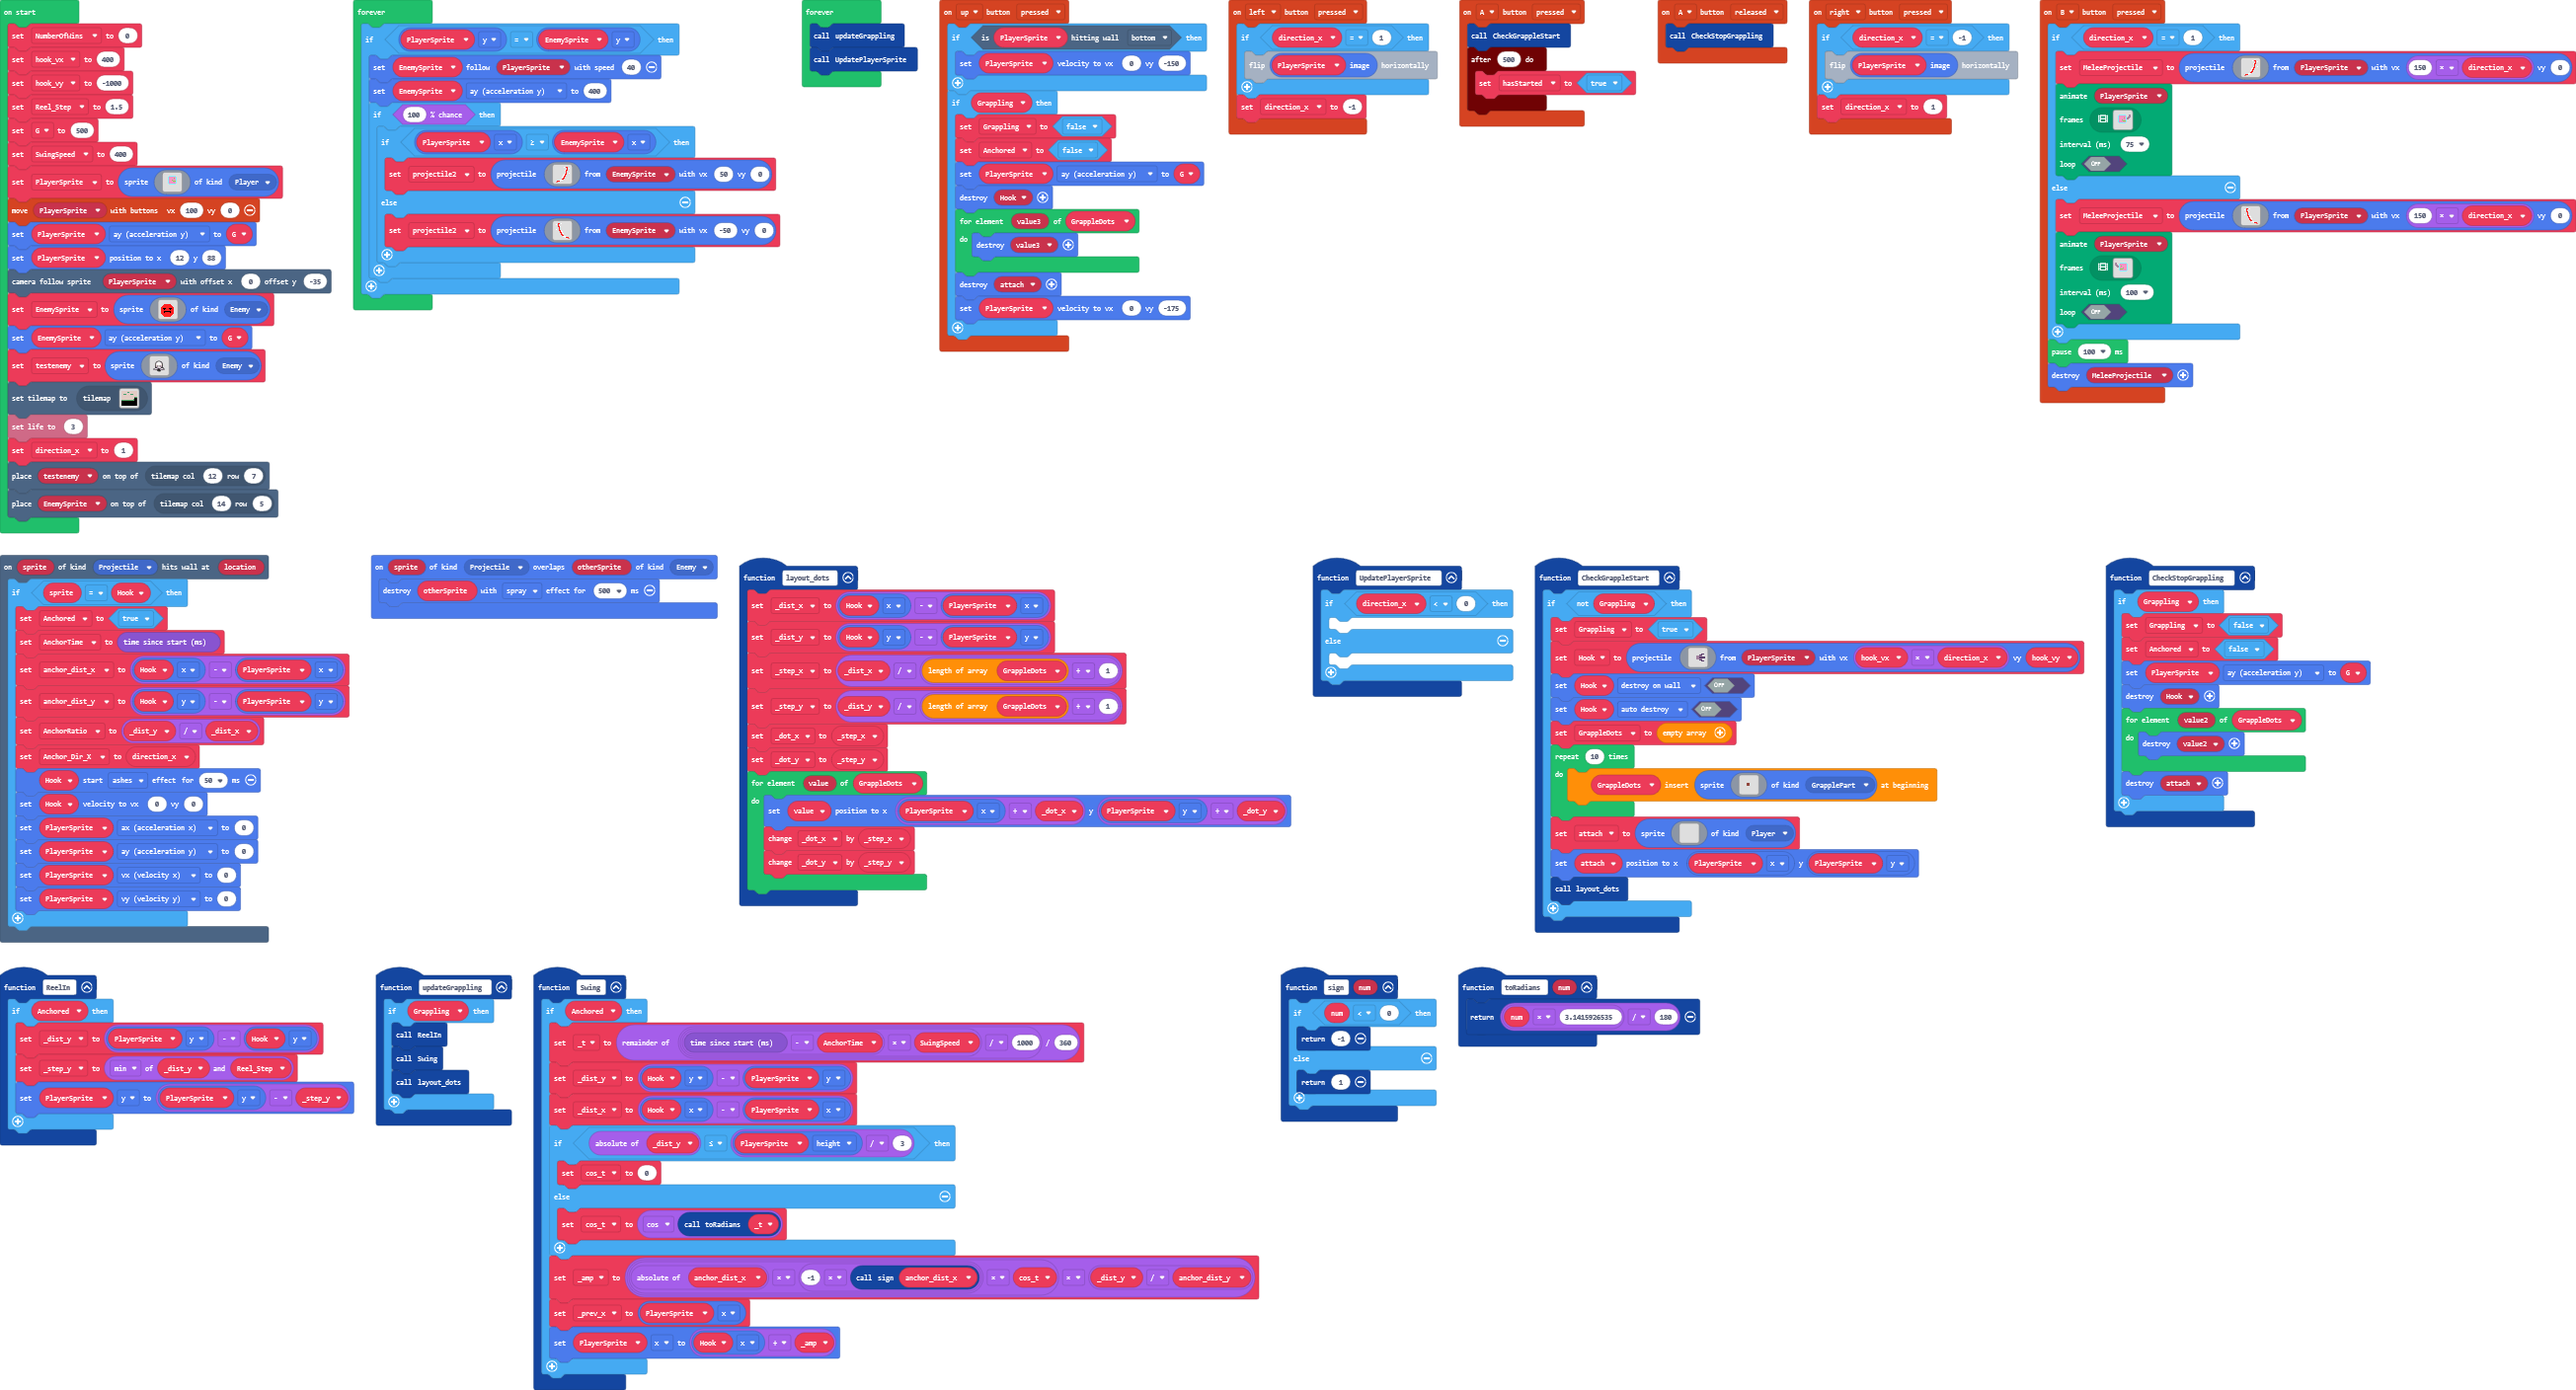
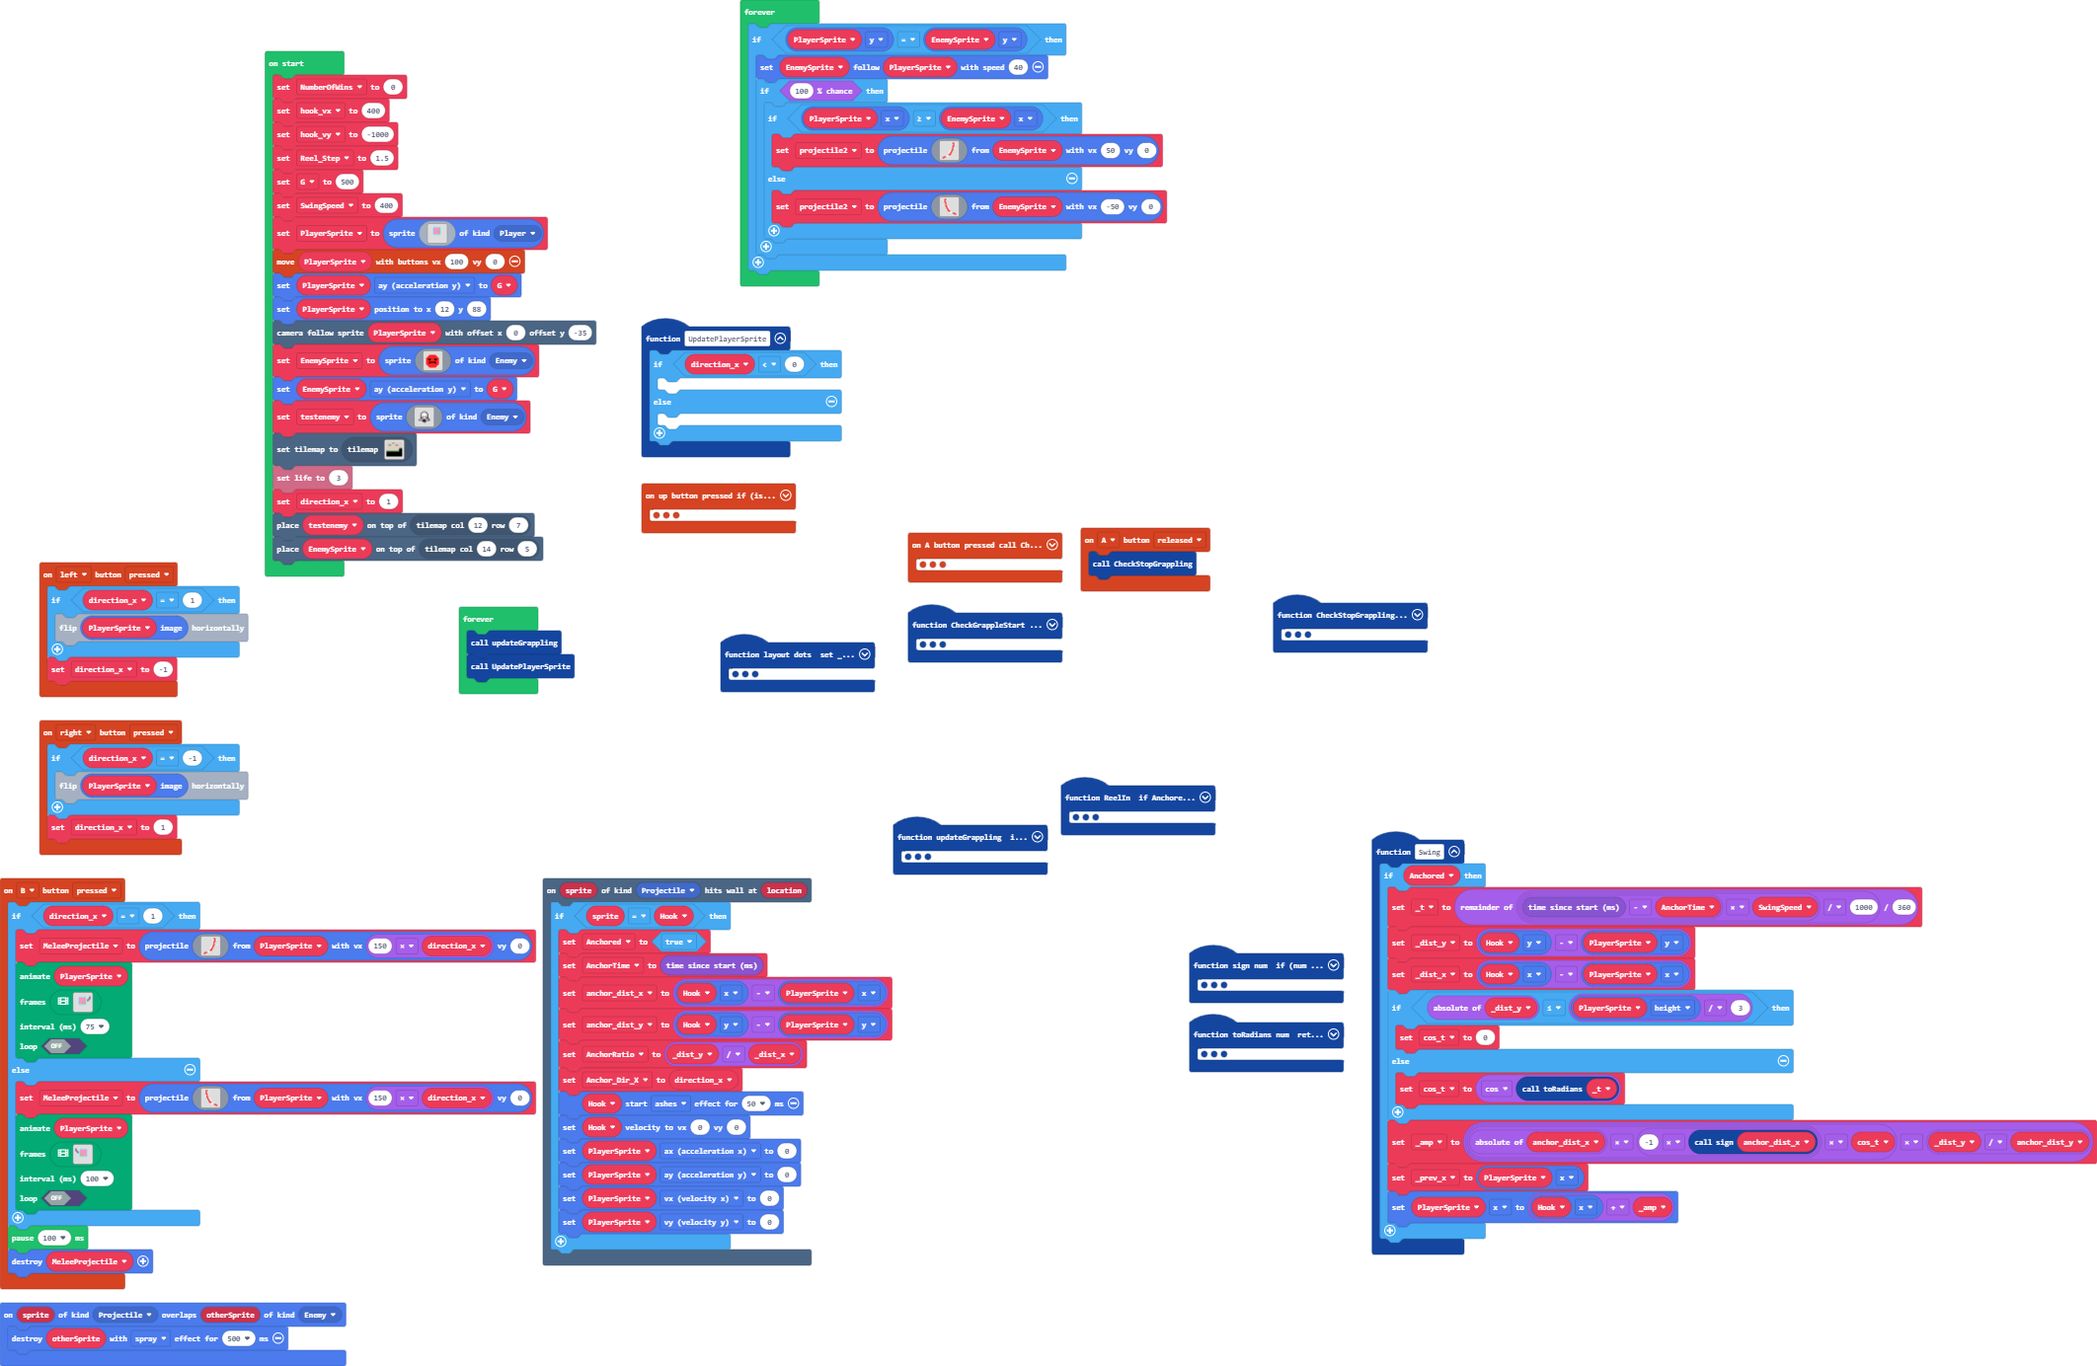
Update main.blocks, main.ts

diff --git a/main.ts b/main.ts
@@ -258,7 +258,6 @@ tiles.placeOnTile(EnemySprite, tiles.getTileLocation(14, 5))
 forever(function () {
     if (PlayerSprite.y == EnemySprite.y) {
         EnemySprite.follow(PlayerSprite, 40)
-        EnemySprite.ay = 400
         if (Math.percentChance(100)) {
             if (PlayerSprite.x >= EnemySprite.x) {
                 projectile2 = sprites.createProjectileFromSprite(assets.image`AttackArc`, EnemySprite, 50, 0)
